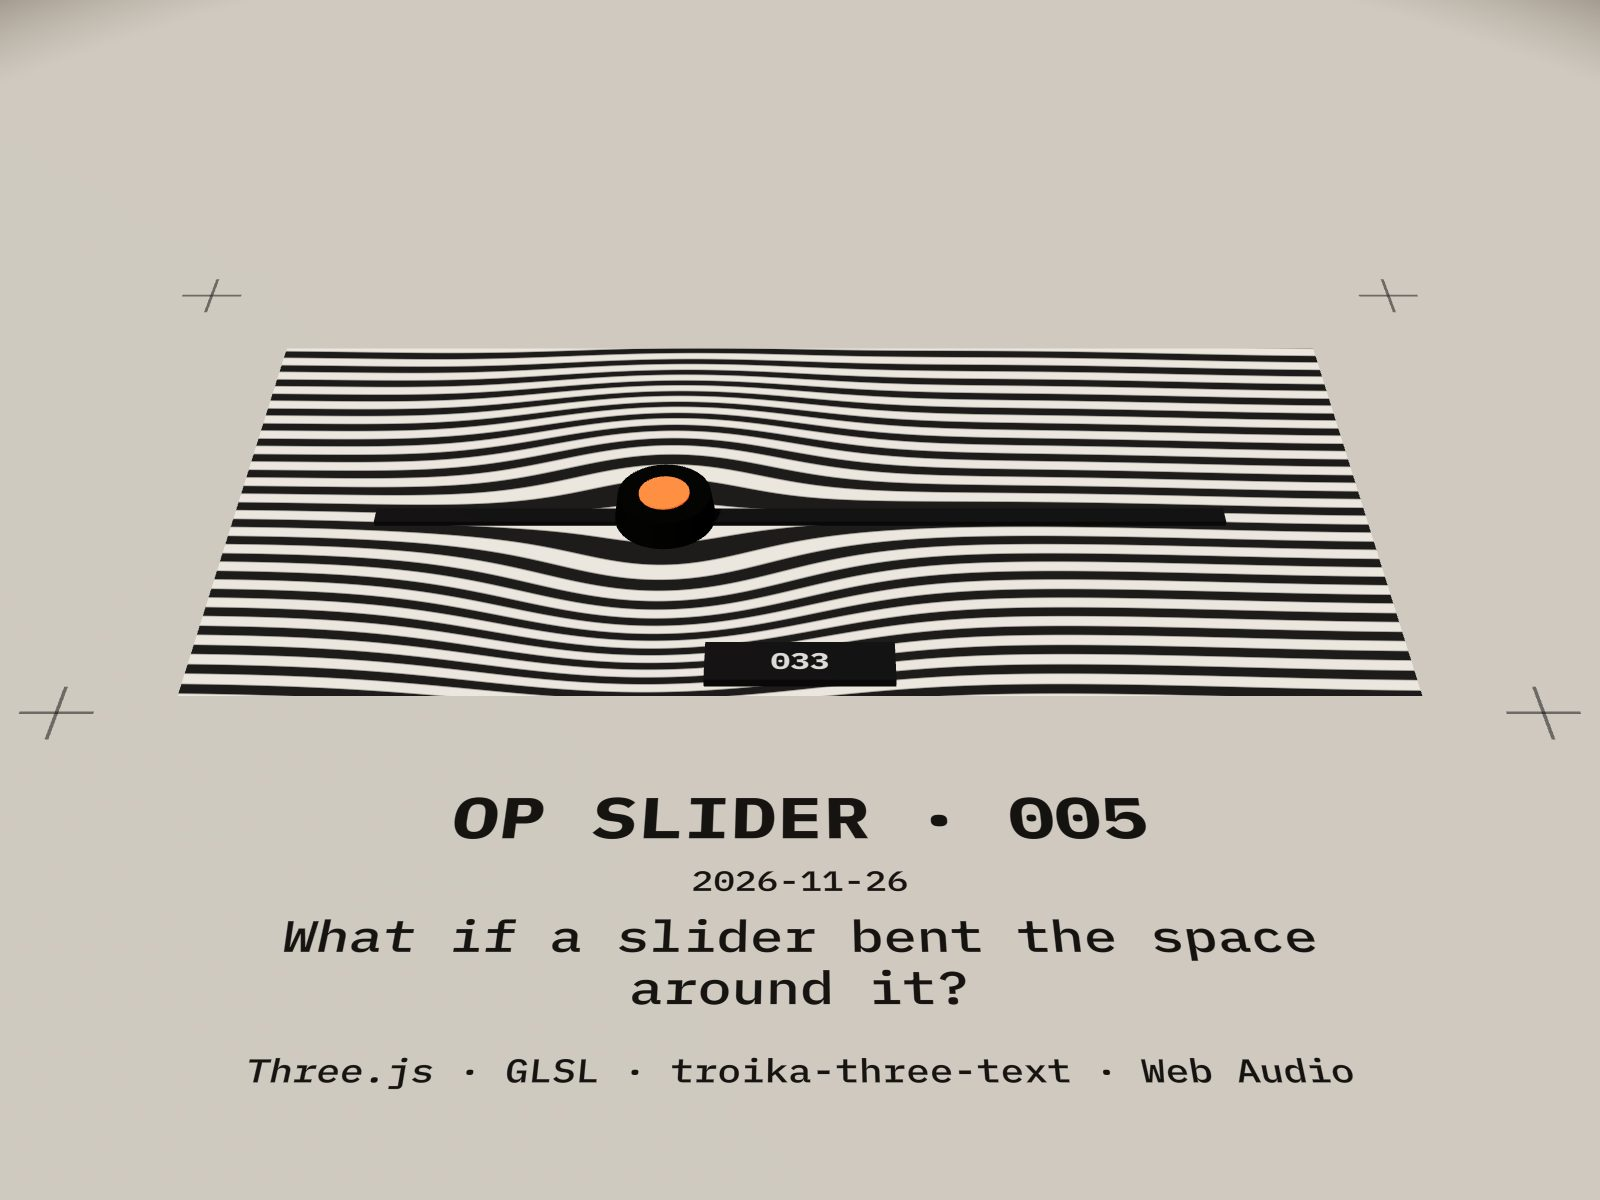
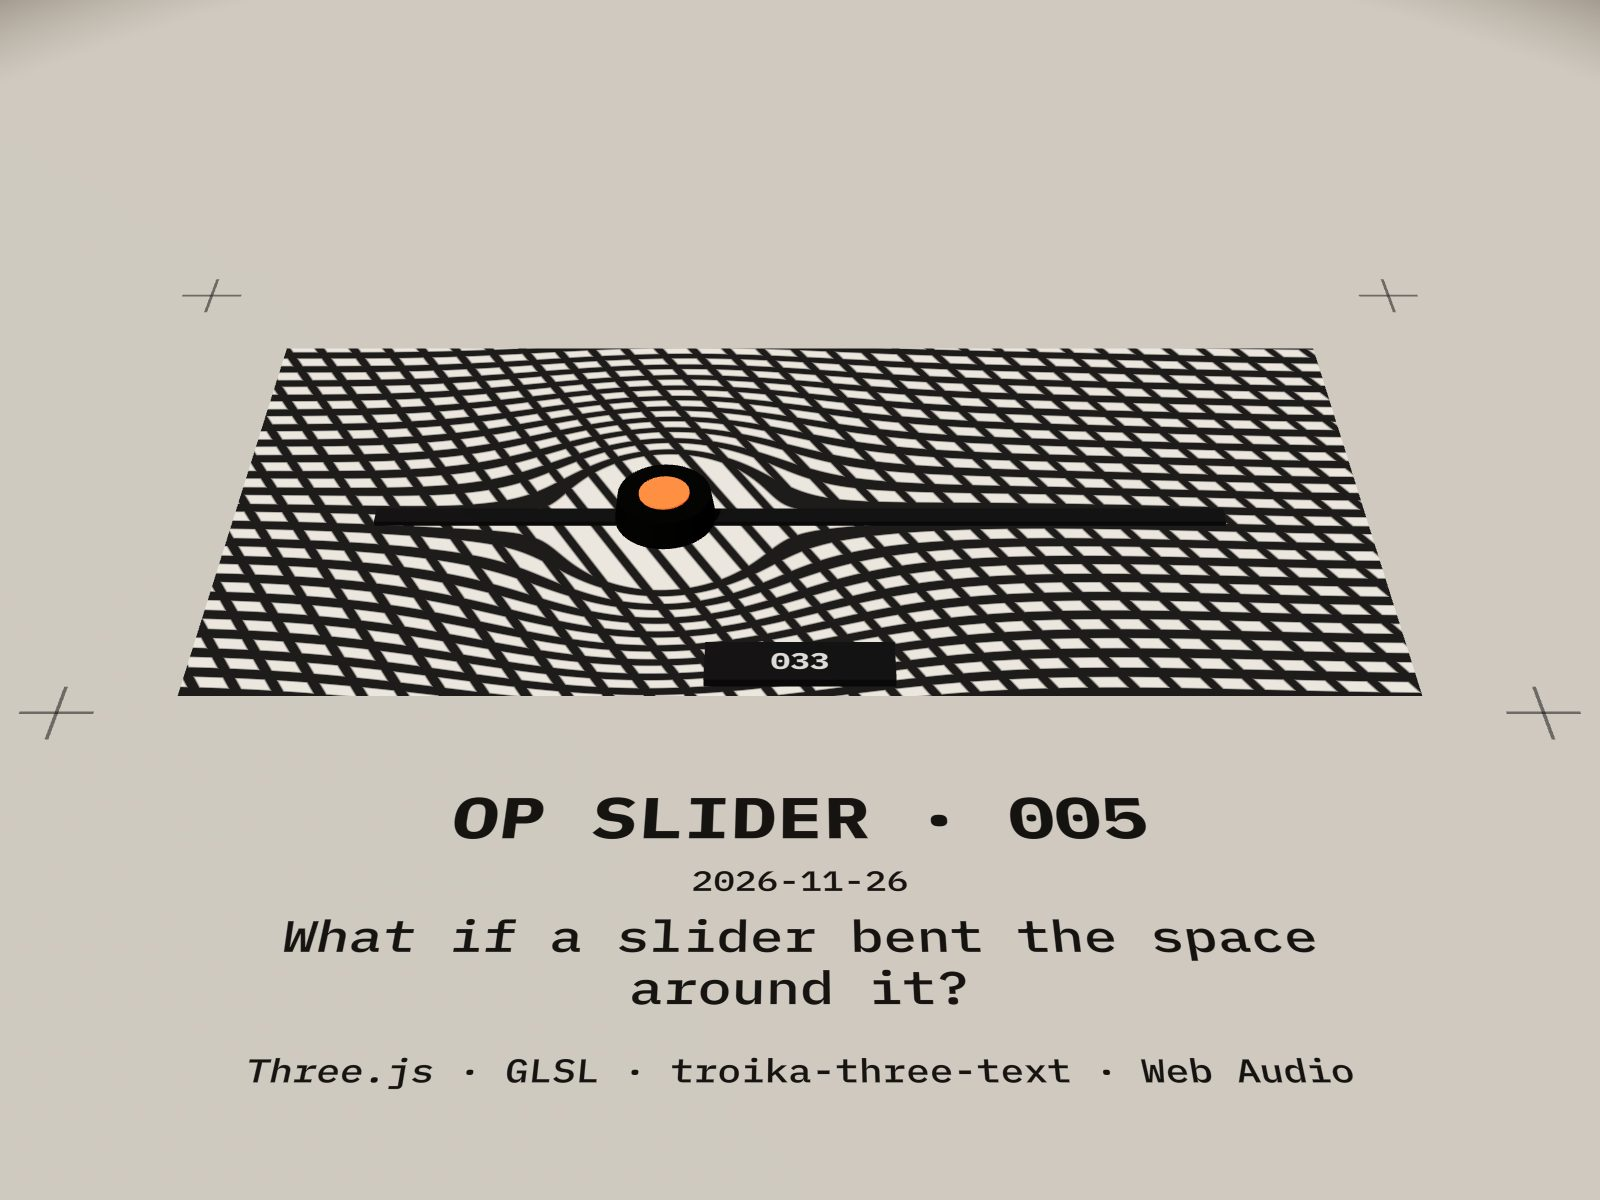
feat(005): stronger repel and a rotating perpendicular under-layer
The puck now pushes the stripes straight away, opening a clearing they bunch
around; beneath them a layer of perpendicular stripes turns around the thumb
as it slides, beating against the top layer into moire.

Changed region(s): [[0.0938, 0.2775, 0.9062, 0.5858]]

diff --git a/sketches/005-op-slider/main.ts b/sketches/005-op-slider/main.ts
@@ -3,7 +3,7 @@ import { Text } from 'troika-three-text'
 import { CAP_HEIGHT, FONTS, PALETTE, createDrag, createStage, type SketchMeta } from '@ux-sketches/stage'
 import '@ux-sketches/stage/stage.css'
 import meta from './sketch.json' with { type: 'json' }
-import { shimmerFrom, sliderValue } from './op.ts'
+import { shimmerFrom, sliderValue, underlayAngle } from './op.ts'
 
 const stage = await createStage(document.getElementById('stage')!, { meta: meta as SketchMeta, sound: true })
 
@@ -12,17 +12,20 @@ if (stage) {
   const HALF = 0.95
   const TRACK_Z = -0.15
   const MAT = { w: 2.7, d: 1.3, z: -0.2 }
-  const RADIUS = 0.42
-  const STRENGTH = 0.82
+  const RADIUS = 0.6
+  /** How far, in metres, the puck pushes the nearest lines away. */
+  const PUSH = 0.28
 
-  // The Op Art mat: Riley-ish wavy stripes, bulged around the thumb like a Vasarely sphere.
+  // The Op Art mat: Riley-ish wavy stripes, bulged hard around the thumb like a Vasarely sphere, over a
+  // second layer of stripes at right angles that turns around the thumb as it slides.
   const opMat = new ShaderMaterial({
     uniforms: {
       uThumb: { value: new Vector2(0, TRACK_Z) },
       uRadius: { value: RADIUS },
-      uStrength: { value: STRENGTH },
+      uPush: { value: PUSH },
       uTime: { value: 0 },
       uShimmer: { value: 0 },
+      uAngle: { value: Math.PI / 2 },
       uInk: { value: PALETTE.ink.clone() },
       uPaper: { value: PALETTE.tile.clone() },
     },
@@ -36,21 +39,30 @@ if (stage) {
     `,
     fragmentShader: /* glsl */ `
       uniform vec2 uThumb;
-      uniform float uRadius, uStrength, uTime, uShimmer;
+      uniform float uRadius, uPush, uTime, uShimmer, uAngle;
       uniform vec3 uInk, uPaper;
       varying vec2 vWorld;
       void main() {
-        // Same as bulgeSample() in op.ts.
+        // Same as bulgeSample() in op.ts: lines pushed straight away from the thumb, opening a clearing.
         vec2 d = vWorld - uThumb;
-        float k = 1.0 - min(0.95, uStrength) * exp(-dot(d, d) / (uRadius * uRadius));
-        vec2 q = uThumb + d * k;
+        float r = length(d);
+        float rs = max(0.0, r - uPush * exp(-r * r / (uRadius * uRadius)));
+        vec2 q = uThumb + (r > 0.0 ? d / r * rs : vec2(0.0));
         float wave = sin(q.x * 3.2 + uTime * 6.0 * uShimmer) * (0.18 + 0.5 * uShimmer);
-        float v = q.y * 16.0 + wave;
+        // Phase so a light gap is centred on the thumb: magnified, it opens into a clearing the lines bow around.
+        float v = (q.y - uThumb.y) * 16.0 + 0.5 + wave * smoothstep(0.0, uRadius, length(d));
         // Triangle wave across each stripe, thresholded with a pixel-wide edge so the stripes stay crisp.
         float tri = abs(fract(v) - 0.5) * 2.0;
         float w = fwidth(v) * 2.0;
-        float stripe = smoothstep(0.5 - w, 0.5 + w, tri);
-        gl_FragColor = vec4(mix(uPaper, uInk, stripe), 1.0);
+        float top = smoothstep(0.5 - w, 0.5 + w, tri);
+        // The under-layer: flat (not bulged) stripes, perpendicular at the centre, turned around the thumb by
+        // uAngle (see underlayAngle in op.ts), at a slightly different pitch so the two layers beat into moire.
+        float u = dot(d, vec2(-sin(uAngle), cos(uAngle))) * 13.0;
+        float tri2 = abs(fract(u) - 0.5) * 2.0;
+        float w2 = fwidth(u) * 2.0;
+        float under = smoothstep(0.68 - w2, 0.68 + w2, tri2);
+        float ink = max(top, under);
+        gl_FragColor = vec4(mix(uPaper, uInk, ink), 1.0);
         #include <colorspace_fragment>
       }
     `,
@@ -121,7 +133,8 @@ if (stage) {
     thumb.position.x = x
     opMat.uniforms.uThumb.value.set(x, TRACK_Z)
     opMat.uniforms.uShimmer.value = shimmerFrom(speed, stage.reducedMotion)
-    opMat.uniforms.uStrength.value = STRENGTH + (stage.reducedMotion ? 0 : Math.min(0.1, speed * 0.04))
+    opMat.uniforms.uAngle.value = underlayAngle(x, HALF)
+    opMat.uniforms.uPush.value = PUSH + (stage.reducedMotion ? 0 : Math.min(0.06, speed * 0.03))
     if (!stage.reducedMotion) opMat.uniforms.uTime.value = t
     const value = sliderValue(x, HALF)
     if (value !== shown) {

diff --git a/sketches/005-op-slider/op.ts b/sketches/005-op-slider/op.ts
@@ -5,19 +5,31 @@ export function sliderValue(x: number, half: number): number {
 }
 
 /**
- * Where the stripe field is sampled for a floor point p, given a thumb at c: a Vasarely-style bulge that
- * pulls samples toward the thumb (magnifying the stripes around it) and fades out by about 2× radius.
- * Strength is capped below 1 so the field never folds over itself. The shader uses the same formula.
+ * Where the stripe field is sampled for a floor point p, given a thumb at c: every line is pushed straight
+ * away from the thumb by up to `push` metres, fading out over about `radius`. Points closer than the push
+ * all sample the thumb itself, so a clearing opens around it and the lines bunch up at its edge. The
+ * distance mapping r -> r - push*exp(-r^2/radius^2) only ever increases, so the field never folds.
+ * The shader uses the same formula.
  */
-export function bulgeSample(px: number, pz: number, cx: number, cz: number, radius: number, strength: number): [number, number] {
-  const s = Math.min(0.95, Math.max(0, strength))
+export function bulgeSample(px: number, pz: number, cx: number, cz: number, radius: number, push: number): [number, number] {
   const dx = px - cx
   const dz = pz - cz
-  const k = 1 - s * Math.exp(-(dx * dx + dz * dz) / (radius * radius))
-  return [cx + dx * k, cz + dz * k]
+  const r = Math.hypot(dx, dz)
+  if (r === 0) return [cx, cz]
+  const rs = Math.max(0, r - Math.max(0, push) * Math.exp(-(r * r) / (radius * radius)))
+  return [cx + (dx / r) * rs, cz + (dz / r) * rs]
 }
 
 /** How much the stripes shimmer for a thumb moving at `speed` m/s: 0 at rest, 1 when flung. */
 export function shimmerFrom(speed: number, reduced: boolean): number {
   return reduced ? 0 : Math.min(1, Math.max(0, speed / 3))
+}
+
+/**
+ * Angle of the under-layer stripes for a thumb at x: perpendicular to the top stripes (π/2) at the centre of
+ * the track, turning a quarter turn each way to lie parallel with them (0 or π) at the ends.
+ */
+export function underlayAngle(x: number, half: number): number {
+  const t = Math.max(-half, Math.min(half, x)) / half
+  return Math.PI / 2 + t * (Math.PI / 2)
 }

diff --git a/sketches/005-op-slider/tests/op.test.ts b/sketches/005-op-slider/tests/op.test.ts
@@ -16,7 +16,7 @@ test('bulgeSample leaves the field alone far from the thumb', () => {
 })
 
 test('bulgeSample magnifies around the thumb (samples pulled toward it)', () => {
-  const [x, z] = bulgeSample(0.2, 0.1, 0, 0, 0.4, 0.8)
+  const [x, z] = bulgeSample(0.2, 0.1, 0, 0, 0.4, 0.1)
   assert.ok(Math.hypot(x, z) < Math.hypot(0.2, 0.1))
   assert.ok(x > 0 && z > 0, 'stays on the same side')
 })
@@ -35,4 +35,29 @@ test('shimmerFrom rises with speed, caps, and is off under reduced motion', () =
   assert.ok(shimmerFrom(2, false) > shimmerFrom(0.5, false))
   assert.equal(shimmerFrom(100, false), 1)
   assert.equal(shimmerFrom(3, true), 0)
+})
+
+test('underlayAngle is perpendicular to the top stripes at the centre', async () => {
+  const { underlayAngle } = await import('../op.ts')
+  assert.ok(Math.abs(underlayAngle(0, 1) - Math.PI / 2) < 1e-9)
+})
+
+test('underlayAngle turns steadily across the track, a quarter turn each way', async () => {
+  const { underlayAngle } = await import('../op.ts')
+  assert.ok(Math.abs(underlayAngle(-1, 1) - 0) < 1e-9)
+  assert.ok(Math.abs(underlayAngle(1, 1) - Math.PI) < 1e-9)
+  let prev = -Infinity
+  for (let x = -1; x <= 1; x += 0.05) {
+    const a = underlayAngle(x, 1)
+    assert.ok(a > prev)
+    prev = a
+  }
+  assert.equal(underlayAngle(5, 1), underlayAngle(1, 1))
+})
+
+test('bulgeSample clears a disk around the thumb: nearby lines are pushed out of it', () => {
+  const [x, z] = bulgeSample(0.1, 0, 0, 0, 0.55, 0.3)
+  assert.ok(Math.abs(x) < 1e-9 && Math.abs(z) < 1e-9, 'inside the clearing everything samples the thumb point')
+  const [x2] = bulgeSample(0.5, 0, 0, 0, 0.55, 0.3)
+  assert.ok(x2 > 0 && x2 < 0.5, 'further out, lines are displaced outward but still ordered')
 })
